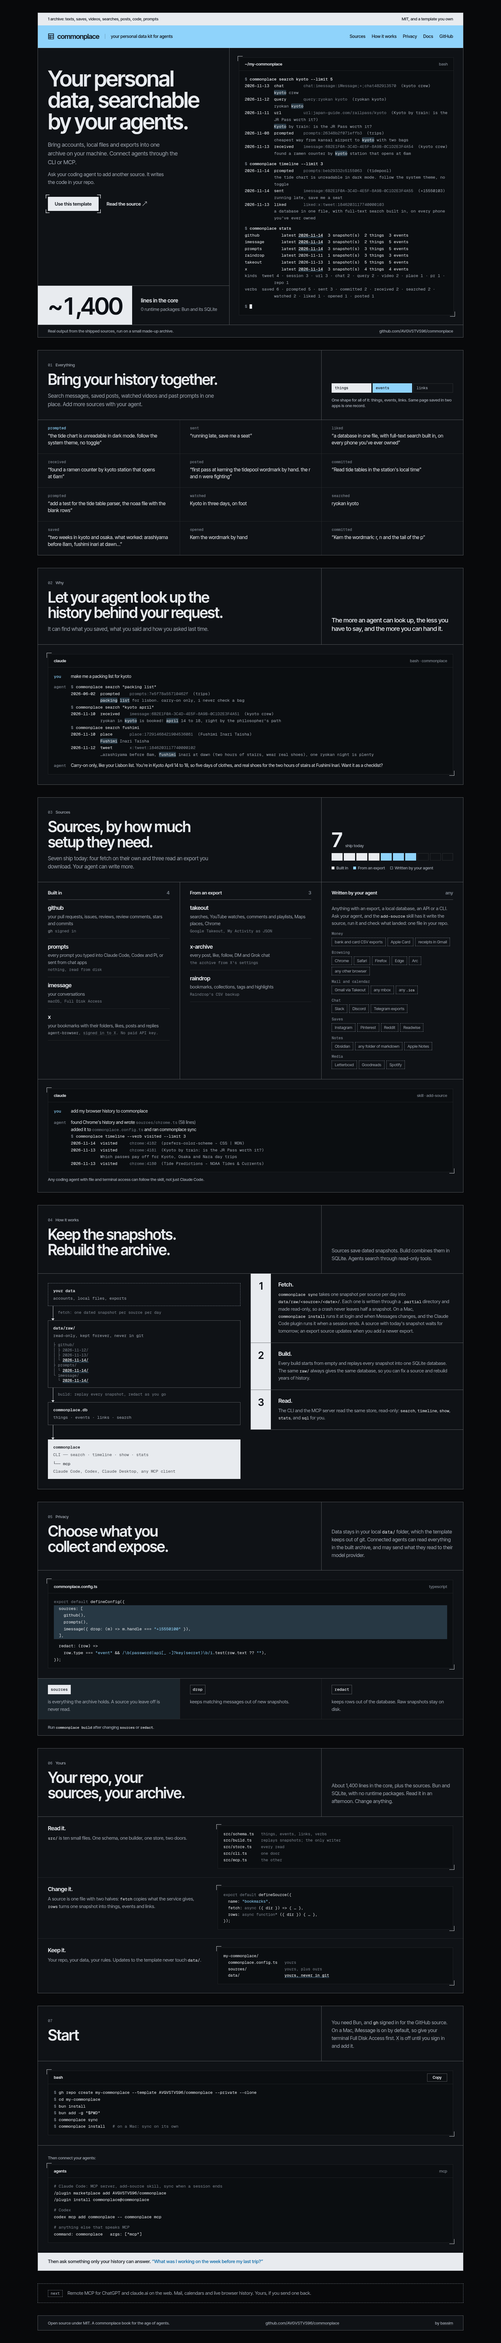
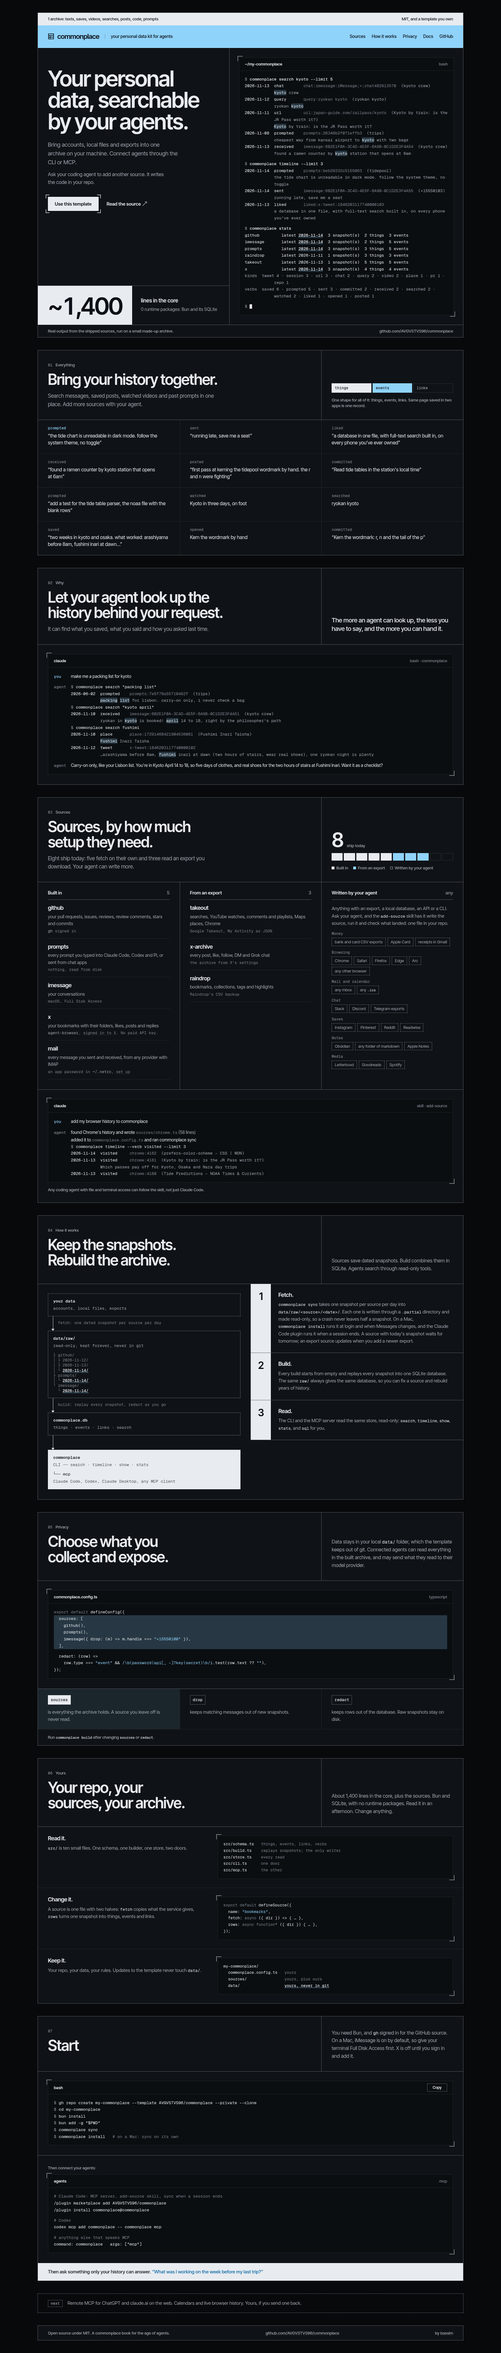
feat(site): mail is the fifth built-in source; brand docs describe the field sheet system
The commonplace v0.1.0 tag ships mail over IMAP, so the copy, the page and
the source bar say eight sources, five built in. LAUNCH.md drops the MCP
allowlist the product no longer has. BRAND.md and references.md now describe
the field sheet system the site uses, with the paper-and-red files marked
retired.

diff --git a/site/index.html b/site/index.html
@@ -163,21 +163,22 @@
 
 <section class="sec" id="sources" aria-labelledby="sources-title">
   <div class="sec-head">
-    <div><p class="label"><b>03</b>Sources</p><h2 id="sources-title">Sources, by how much setup they need.</h2><p class="line">Seven ship today: four fetch on their own and three read an export you download. Your agent can write more.</p></div>
+    <div><p class="label"><b>03</b>Sources</p><h2 id="sources-title">Sources, by how much setup they need.</h2><p class="line">Eight ship today: five fetch on their own and three read an export you download. Your agent can write more.</p></div>
     <div class="aside">
-      <div class="count"><b>7</b><span class="small">ship today</span></div>
-      <div class="cells" aria-hidden="true"><i></i><i></i><i></i><i></i><i class="e"></i><i class="e"></i><i class="e"></i><i class="w"></i><i class="w"></i><i class="w"></i></div>
+      <div class="count"><b>8</b><span class="small">ship today</span></div>
+      <div class="cells" aria-hidden="true"><i></i><i></i><i></i><i></i><i></i><i class="e"></i><i class="e"></i><i class="e"></i><i class="w"></i><i class="w"></i></div>
       <div class="legend small"><span>Built in</span><span class="e">From an export</span><span class="w">Written by your agent</span></div>
     </div>
   </div>
   <div class="tiers">
     <div class="tier">
-      <h3><span>Built in</span><span>4</span></h3>
+      <h3><span>Built in</span><span>5</span></h3>
       <dl>
         <div class="row"><dt>github</dt><dd>your pull requests, issues, reviews, review comments, stars and commits</dd><dd class="needs"><code>gh</code> signed in</dd></div>
         <div class="row"><dt>prompts</dt><dd>every prompt you typed into Claude Code, Codex and Pi, or sent from chat apps</dd><dd class="needs">nothing, read from disk</dd></div>
         <div class="row"><dt>imessage</dt><dd>your conversations</dd><dd class="needs">macOS, Full Disk Access</dd></div>
         <div class="row"><dt>x</dt><dd>your bookmarks with their folders, likes, posts and replies</dd><dd class="needs"><code>agent-browser</code>, <a href="https://github.com/AVGVSTVS96/commonplace#x">signed in to X</a>. No paid API key.</dd></div>
+        <div class="row"><dt>mail</dt><dd>every message you sent and received, from any provider with IMAP</dd><dd class="needs">an app password in <code>~/.netrc</code>, <a href="https://github.com/AVGVSTVS96/commonplace#mail">set up</a></dd></div>
       </dl>
     </div>
     <div class="tier">
@@ -194,7 +195,7 @@
       <dl class="chips">
         <div><dt>Money</dt><dd><span>bank and card CSV exports</span><span>Apple Card</span><span>receipts in Gmail</span></dd></div>
         <div><dt>Browsing</dt><dd><span>Chrome</span><span>Safari</span><span>Firefox</span><span>Edge</span><span>Arc</span><span>any other browser</span></dd></div>
-        <div><dt>Mail and calendar</dt><dd><span>Gmail via Takeout</span><span>any mbox</span><span>any <code>.ics</code></span></dd></div>
+        <div><dt>Mail and calendar</dt><dd><span>any mbox</span><span>any <code>.ics</code></span></dd></div>
         <div><dt>Chat</dt><dd><span>Slack</span><span>Discord</span><span>Telegram exports</span></dd></div>
         <div><dt>Saves</dt><dd><span>Instagram</span><span>Pinterest</span><span>Reddit</span><span>Readwise</span></dd></div>
         <div><dt>Notes</dt><dd><span>Obsidian</span><span>any folder of markdown</span><span>Apple Notes</span></dd></div>
@@ -362,7 +363,7 @@ src/mcp.ts      <span class="c">the other</span></pre></div>
 
 <aside class="next" aria-label="Next">
   <span class="tag">next</span>
-  <p>Remote MCP for ChatGPT and claude.ai on the web. Mail, calendars and live browser history. Yours, if you send one back.</p>
+  <p>Remote MCP for ChatGPT and claude.ai on the web. Calendars and live browser history. Yours, if you send one back.</p>
 </aside>
 
 </main>

diff --git a/brand/BRAND.md b/brand/BRAND.md
@@ -1,14 +1,16 @@
 # commonplace · brand
 
-**The idea in a sentence:** a commonplace book for the age of agents, and it looks like one that a developer keeps in a terminal: paper, mono, one red pen.
+**The idea in a sentence:** a commonplace book for the age of agents, laid out like a field sheet: framed panels, ink, one sky blue, and real output as the picture.
+
+The look is direction A, "Field sheet", from `~/Developer/brand-it-directions/commonplace/` (built on @kyleanthony's "Utilitarian style website design" and "Neo Industrial" posts; see `references.md`). The site in `site/` is the living specimen: when this file and the site disagree, the site wins and this file gets fixed.
 
 ## Personality
 
 - **Plain.** It says what it does in the words a README would use. No marketing voice, no setup-and-punchline.
 - **Yours.** A template you own, not an app you install. Everything on the page should look readable, editable, forkable: file trees, config, one-file sources.
 - **Quiet about privacy, loud about structure.** Trust comes from showing the mechanism (dated read-only snapshots, one door, you choose what goes in), not from a lock icon.
-- **Data-powerful, not data-dashboard.** Numbers are real and set in a ledger, never in a KPI tile.
-- **Developer, in the sense of hackable.** Terminal and tree views, but light, airy and friendly. Never the dark-neovim-rice look.
+- **Data-powerful, not data-dashboard.** Numbers are real, set big in a black cell or as a bar of cells, never as a KPI tile with a trend arrow.
+- **Developer, in the sense of hackable.** Terminal and tree views, framed like plates on a spec sheet. Light by default, with a dark theme that is the same tokens swapped.
 
 ## What it is and isn't
 
@@ -21,93 +23,82 @@
 
 ## The visual system
 
-### Type: Ioskeley Mono + IBM Plex Sans (OFL, free)
+### Type: Inter Tight + Geist Mono (OFL, free)
 
-Two voices. Ioskeley Mono is an Iosevka build in the proportions of Berkeley Mono (the mono he admires, see `references.md`), free under the OFL, and it ships every glyph the system draws with: box drawing `├ └ │ ─`, arrows `→ ↗`, the block `▮`. Plex Sans carries the prose.
+- **Inter Tight** for everything a person says: headlines at 600 with `-0.035em` tracking and line-height about 1 (hero `clamp(44px, 4.9vw, 70px)`, section heads `clamp(32px, 3.4vw, 48px)`); body 400 at 16–18px/1.55; labels and captions 500 at 13px, sentence case. No serif, no uppercase tracking.
+- **Geist Mono** for everything the computer says: terminals, paths, commands, `needs` notes, verbs in the ledger. 13px in terminals, 12–12.5px in dense notes. Ligatures off (`font-variant-ligatures: none`).
+- Geist Mono has no box-drawing or arrow glyphs, so the same family name also loads Ioskeley Mono 400 for `U+2190–21FF, U+2500–257F, U+25A0–25FF` only. Both are 600 units wide, so trees and columns still line up. Inter Tight gets the arrows from the same file.
+- Files: `site/public/fonts/inter-tight.woff2`, `geist-mono.woff2`, `ioskeley-mono-400.woff2`.
 
-- **Ioskeley Mono** for everything the computer says: terminal, tables, labels, paths, dates, numbers, the wordmark. 14px is the working size (`0.875rem/1.6`); 12px uppercase tracked `0.08em` for labels; 13px in diagrams and dense panels. Weights 400 and 500 only, 500 for the wordmark. Ligatures off everywhere (`font-variant-ligatures: none`): `=>` and `--` stay two characters, like a terminal.
-- **Plex Sans** (variable) for everything a person says: headlines at 540–560, letter-spacing `-0.02` to `-0.028em`, line-height 1.02–1.1; body at 400, 17px/1.55; small body 15px. Enable `ss01` and `cv05` (the single-storey a and open g make it friendlier). Measure 64ch.
-- The mono is one CSS token, `--font-mono`, so swapping it is one line. Shipped as subsets (`fonts/ioskeley-mono-{400,500,600}.woff2`, Latin plus U+2190–21FF, U+2500–257F, U+25A0–25FF, about 17 KB each); the full builds are in `fonts/ioskeley/`.
-- Upgrade path if he wants to spend money: **Berkeley Mono** ($75, US Graphics) swaps in for Ioskeley with no other change; the proportions already match.
+### Color: ink, sheet, one sky blue
 
-### Color: paper, ink, one red
-
-Light is the default (the brief says light-terminal). Dark is the same tokens swapped, never a second design.
+Light is the default. Dark is the same tokens swapped, never a second design.
 
 | token | light | dark | use |
 | --- | --- | --- | --- |
-| `--bg` | `#FAF9F6` | `#121211` | the page: paper, not white; near-black, not black |
-| `--bg-2` | `#F1EFEA` | `#1A1A18` | terminal and panel fill |
-| `--ink` | `#141412` | `#ECEAE4` | text, rules, filled buttons |
-| `--ink-2` | `#5C5A55` | `#A7A49D` | secondary text, terminal output |
-| `--ink-3` | `#6F6C66` | `#8F8C85` | labels, hints, dimmed rows |
-| `--hair` | `rgb(20 20 18 / .14)` | `rgb(236 234 228 / .16)` | 1px rules and borders |
-| `--hair-2` | `rgb(20 20 18 / .07)` | `rgb(236 234 228 / .08)` | row dividers, bar tracks |
-| `--red` | `#D2451E` | `#F06A42` | the rubric: `$`, section labels, the newest snapshot, the cursor, the "now" row |
-| `--red-soft` | `rgb(210 69 30 / .10)` | `rgb(240 106 66 / .14)` | search-term highlight, selection |
-| `--green` | `#2F7D4A` | `#5FBF80` | done, built, added |
-| `--blue` | `#2A56C6` | `#83A6FF` | IDs and links inside terminal output only |
-| `--amber` | `#B06F0A` | `#E2A43C` | pending, coming |
+| `--page` | `#E9ECEF` | `#08090B` | the field the sheets sit on |
+| `--sheet` | `#FFFFFF` | `#0F1216` | every framed panel |
+| `--plate` | `#F6F8FA` | `#0B0E11` | terminal and code plates |
+| `--ink` | `#0D1117` | `#E8EBEF` | text, frames, crop marks |
+| `--ink-2` | `#555D68` | `#A2A9B3` | secondary text, output |
+| `--ink-3` | `#747B86` | `#7D858F` | labels, IDs, prompts |
+| `--frame` | `#0D1117` | `rgb(232 235 239 / .36)` | the 1px frame of every sheet and cell |
+| `--line` | `rgb(13 17 23 / .12)` | `rgb(232 235 239 / .10)` | rows inside a cell, plate borders |
+| `--solid` / `--on-solid` | `#0D1117` / `#FFFFFF` | `#E8EBEF` / `#0D1117` | black strips, figure cells, buttons |
+| `--sky` / `--on-sky` | `#9DDCFF` / `#0D1117` | `#8FD3FB` / `#0D1117` | the nav band, the second series in a bar |
+| `--sky-ink` | `#0B6AA8` | `#8FD3FB` | blue text: "you", strings, the newest entry, focus rings |
+| `--solid-accent` | `#9DDCFF` | `#0B6AA8` | blue text on a solid strip |
+| `--hit` | `rgb(80 180 245 / .26)` | `rgb(143 211 251 / .22)` | search hits, today's date, the highlighted config lines |
 
-Rule: **red is the only brand colour, and it means "this one, now".** Green, blue and amber live inside terminal output and status chips, like a light terminal theme, and never become decoration. The reason it holds together: a medieval commonplace book used red (rubrication) for headings and the marks that said "look here"; a shell uses one colour for the prompt. Same job, one colour.
+Rule: **sky blue is the only colour, and it means "this one" or "yours"**: the band you navigate by, the hit you searched for, the line you're reading, the second kind in a count. Everything else is ink at three strengths. No red, no green, no amber.
 
-### Grid and spacing
+### Frames and spacing
 
-- 8px base, 4px half step. Scale: 4 · 8 · 12 · 16 · 24 · 32 · 48 · 64 · 96.
-- Page max 76rem with 1px hairline side rails; gutters `clamp(1rem, 4vw, 3rem)`; sections separated by hairlines, not by background changes.
-- Square corners everywhere. No shadows. 1px borders in `--hair`; 1px in `--ink` only for the primary thing on screen (table head rule, a diagram box, a button).
-- Tables and terminal panels go full width of their column and scroll sideways on phones rather than wrapping.
+- The page is a stack of framed sheets on `--page`, 40px apart and inset (14px below 1100px). Max width 1440px.
+- Every sheet is a grid of cells divided by 1px `--frame` rules; rows inside a cell use `--line`. Square corners, no shadows.
+- Padding is 32px inside a cell (18px on phones). Section heads are a 2:1 split: heading and line left, a data panel right.
+- Terminals never clip: long output wraps with a hanging indent (the hero) or scrolls sideways with a 40px fade at the edge that disappears once scrolled to the end.
 
 ### Motifs
 
-1. **The prompt line.** `$ commonplace sync` with a red `$`. It is the hero, the CTA (`$ gh repo create --template`) and the section opener. The prompt says "you type this, it is yours", where a button says "we run this for you".
-2. **The rubric.** Every section opens with a 12px red mono label and a number: `03  SOURCES`. Headlines stay ink.
-3. **The ledger.** Tables with a solid 1px head rule, hairline rows, dates first, numbers right-aligned in tabular figures, source names in 500. Dimmed rows for what's coming, never fake numbers.
-4. **The snapshot tree.** `data/raw/github/2026-10-08/` drawn with box-drawing characters, newest date in red. It is the proof of "private, read-only, kept forever" and it is also the brand's one picture.
-5. **The cursor.** A block at x-height in red. The wordmark ends with it, the terminal ends with it, the video ends with it.
-6. **The date.** `2026-10-08` as a stamp wherever something was last true. Never "2 hours ago".
-
-The book heritage is carried by the mono, red rubrics and ledger tables. No quills, parchment, serifs, drop caps, or ornament.
-
-### Iconography
-
-Almost none. Prefer glyphs the fonts already have: `→ ↗ ✓ · ─ │ ├ └ ▮ ›`. Source badges are two-to-four-letter mono chips in a hairline box (`gh`, `x`, `yt`, `rd`). If an icon is unavoidable: 16px grid, 1.5px stroke, square caps, ink only.
-
-### Diagrams
-
-Diagrams look typed: 1px ink boxes, mono labels, straight orthogonal wires that meet at right angles, dashed for optional, red for the path to you. Flow goes left to right: accounts → `data/raw/` → `commonplace.db` → CLI and MCP → you and your agents. Drawn as SVG so the site can animate the wires; a `<pre>` tree whenever text alone says it. Never isometric, never gradients, never icons in boxes.
+1. **The sheet.** One framed panel per section, with a numbered label (`01 Everything`) above a big heading.
+2. **The strip.** A black strip of facts across the top of the first sheet, and a ruled strip for captions at its foot.
+3. **The band.** The sky-blue nav band with the logo and tagline. Once it scrolls away, the same band slides in fixed at the top.
+4. **The figure.** One real number, big, in a black cell: `~1,400` lines in the core.
+5. **The plate.** Terminals, code and trees sit on a plate with two ink crop marks, top left and bottom right. The primary button gets four corner brackets.
+6. **The cell bar.** A count as a row of squares: solid for built in, sky for from an export, an empty outline for what your agent writes.
 
 ### Data viz
 
-A chart is a table row with a bar in it. Horizontal bars on a `--hair-2` track, ink fill, the row you are talking about in red, label left in `--ink-2`, number right in tabular figures. Sparklines are 1px ink. Categorical colour is ink shades first and red for one series; never a rainbow. Only numbers that exist in a real archive, with the date they were true.
+A count is a cell bar; a number is a figure cell; a list is a ruled grid of cells. Only numbers that exist in the real code or the demo archive, with the date they were true.
 
 ### Motion
 
-- **Follows state.** Something moves because something happened: a snapshot landed, a row appeared, a command returned. Nothing on timers or scroll position, no parallax, no scroll-jacking.
-- **Three durations, one curve.** 120ms colour and hover, 200ms enter and reveal, 320ms layout and diagram wires; `cubic-bezier(.2, .7, .2, 1)`.
-- **Typed, not faded.** Terminal lines appear whole and in order like real output; the cursor blinks at 1s in `steps(1)`. `prefers-reduced-motion` stops the blink and skips reveals.
-- **Numbers are real.** A counter counts to a number from an archive, once, over 320ms, and stops.
+- **Follows state.** Something moves because something happened: the band leaves the screen, a rule is hovered, Copy is pressed. Nothing on scroll position or timers, apart from the terminal cursor's 1s blink.
+- 120ms for colour and hover, 200ms for the fixed band; `cubic-bezier(.2, .7, .2, 1)`. `prefers-reduced-motion` turns transitions off.
+- Terminals show their whole output at once. The output is the proof; nobody should wait for it.
 
 ### Video
 
-Same system on a 1920×1080 paper stage. Every scene is a real command and its real output, typed at ~45ms per character with the output landing whole. Hard cuts on the beat, no crossfades. One red object per scene (the `$`, the newest snapshot, the cursor). Sound: keypress ticks and one tone when the build line lands. It ends on `commonplace▮`.
+The same system on a 1920×1080 stage: sheets, strips, plates and the sky band, every scene a real command and its real output. Hard cuts on the beat, no crossfades. See `video/README.md` and `video/LEARNED.md`.
 
 ## Logo
 
-`logo/commonplace.svg` (light), `logo/commonplace-dark.svg`, `logo/commonplace-mono.svg` (`currentColor`, for inline use), `logo/mark.svg`, `logo/mark-dark.svg`, `logo/favicon.svg` (follows the system theme). `logo/gen.mjs` regenerates all of them from the fonts with `bun logo/gen.mjs`.
+The mark is a square grid, three rows with the bottom two split: an index card, a ledger, a table. 22-unit viewBox, 2-unit stroke, square caps, `currentColor`. The wordmark is the word **commonplace** in Inter Tight 600 at `-0.03em`, set 10px to the right of the mark at 20–24px, live text rather than outlines. Next to it, after a thin rule, the tagline in lowercase: *your personal data kit for agents*.
 
-Three directions were explored (`logo/explore-*.svg`, shown and argued in `specimen.html`). The pick is **A, the cursor**: the name in Ioskeley Mono with a red block cursor at x-height. It says CLI without drawing a window, it says the book is never finished, and it reduces to a 16px favicon (`c▮`) without losing anything.
-
-Clear space: one cursor width on every side. Minimum height: 14px for the wordmark, 16px for the mark. Never recolour the cursor to anything but `--red` (or `currentColor` in the mono version).
+- `logo/grid.svg`: the mark alone, in `currentColor`.
+- `site/public/favicon.svg`: the mark in ink on a sky rounded square, the same in both themes; `apple-touch-icon.png` is rendered from it by `bun --filter site shots`.
 
 ## Files
 
 ```
 brand/
 ├ BRAND.md            this
-├ references.md       what from his own saved inspiration this is built on
-├ specimen.html       the system in use
-├ render.mjs          bun render.mjs → shots/{desktop,phone}-{light,dark}.png
-├ fonts/              Ioskeley Mono 400/500/600 subsets (+ full builds in ioskeley/), Plex Sans variable (+italic), OFL
-└ logo/               wordmark, mark, favicon, explorations, gen.mjs, the two TTFs it reads (Ioskeley Mono Medium, Plex Sans SemiBold)
+├ references.md       what the system is built on
+├ logo/grid.svg       the mark
+└ fonts/              Ioskeley Mono and Plex Sans, used by the retired system and the box-drawing fallback
 ```
+
+### Retired: paper, mono and one red (Oct 2026)
+
+The first system: Ioskeley Mono and Plex Sans on warm paper, a red rubric and a block-cursor wordmark. Its files stay for the record: `specimen.html`, `fonts-compare.html`, `fonts.md`, `render.mjs`, `shots/`, and `logo/` apart from `grid.svg` (`gen.mjs` regenerates the cursor wordmark). Don't use them for new work.

diff --git a/brand/references.md b/brand/references.md
@@ -1,8 +1,16 @@
 # references
 
+## Field sheet (current, Nov 2026)
+
+Pulled from Bassim's X saves with the commonplace CLI (X synced 2026-11-12); the full board and the two directions not taken are in `~/Developer/brand-it-directions/commonplace/`.
+
+- **@kyleanthony, "Utilitarian style website design"**, https://x.com/kyleanthony/status/2008525918047007201, and his "Neo Industrial" post, https://x.com/kyleanthony/status/2093309881893724669. Taken: the page as framed sheets; a black status strip on top and a ruled strip at the foot; the sky-blue nav band; the bracketed button; one big figure in a black cell; panels with corner crop marks; a cell grid for counts. Changed: Inter Tight throughout instead of a serif, sentence-case labels, white sheets on cool grey instead of cream, sky blue and ink instead of orange, and real `commonplace` output on every plate.
+
+## Paper, mono and one red (retired, Oct 2026)
+
 What the system is built on, pulled from Bassim's own X bookmarks and Raindrop collections (me.db, Oct 8 2026), plus a few outside references that clearly fit. One line each on what to take.
 
-## From his saved posts and bookmarks
+### From his saved posts and bookmarks
 
 1. **Neo Industrial: "the perfect collision of Swiss design and technical spec sheets"**, @kyleanthony. https://x.com/kyleanthony/status/2093309881893724669. The thesis in one line: Swiss grid and restraint, spec-sheet tables and labels. The ledger and the rubric come from here.
 2. **markdown graphs: "tables, charts, and diagrams for MDX that look like they were typed"**, @kshvbgde. https://x.com/kshvbgde/status/2093015885669888237. The diagram and chart style: typed, mono, 1px, no icons.
@@ -25,7 +33,7 @@ What the system is built on, pulled from Bassim's own X bookmarks and Raindrop c
 19. **ASCII backgrounds are trending**, @kail_designs, @uihssn; and the counterpoint, @hewarsaber: "unlike the bs ascii art flooding the timeline". https://x.com/kail_designs/status/2063524629571064128 · https://x.com/hewarsaber/status/2044350699979333727. He saved both: the terminal look is in, and ASCII wallpaper is already a cliché. So: box-drawing where it carries meaning (the tree), never as texture.
 20. **Linear's new icons and components**, @Griveau. https://twitter.com/i/web/status/2090746237934883043. If icons ever appear: this weight and restraint.
 
-## Outside references that fit
+### Outside references that fit
 
 - **IBM Plex** specimen and the reasoning behind the family (https://www.ibm.com/plex/). Mono and sans drawn together; why one family carries both voices.
 - **Locke's "A New Method of Making Common-Place-Books" (1706)**. The original index-and-ledger method; the reason the brand is tables and dates, not notebooks and quills.

diff --git a/copy/MESSAGING.md b/copy/MESSAGING.md
@@ -31,7 +31,7 @@ The headline says what you get. The sub line says what goes in, where it lives a
 Three moves, in this order.
 
 **1. Your history is scattered.**
-Agents can already read your code. The rest is spread across apps: texts, saved posts, watched videos, searches, bookmarks, every prompt you typed. commonplace brings it into one archive with one shape: things, events, links. Seven sources ship today.
+Agents can already read your code. The rest is spread across apps: texts, saved posts, watched videos, searches, bookmarks, every prompt you typed. commonplace brings it into one archive with one shape: things, events, links. Eight sources ship today.
 
 **2. Your agent can look up the history behind a request.**
 What you saved, what you said, how you asked last time. Ask for a packing list and it can find that you pack carry-on only, the dates in the group chat, and the hike you saved. Say what it can find, never what it will understand.
@@ -48,7 +48,7 @@ Don't say "digital twin", "second brain", "memory layer", "context engine", "kno
 - **A template repo.** You copy it into a private repo of your own. The code is yours, in your repo, next to your data. About 1,400 lines in the core, plus one file per source. Bun and its built-in SQLite, with no runtime packages.
 - **An archive of dated snapshots.** At most one read-only snapshot per source per day in `data/raw/`, kept forever. One SQLite database rebuilt from them anytime. Full-text search that matches word forms, not meanings.
 - **A CLI and an MCP server.** Both read the same database, read-only. Claude Code, Codex, Claude Desktop, and anything else that speaks MCP.
-- **Sources.** Seven ship today. Four fetch on their own: GitHub; every Claude Code, Codex and Pi prompt; iMessage; and X, read from your own signed-in agent-browser session, with no paid API key. Three read an export you download: Google Takeout, the X archive, Raindrop. Your agent writes the rest with `add-source`.
+- **Sources.** Eight ship today. Five fetch on their own: GitHub; every Claude Code, Codex and Pi prompt; iMessage; X, read from your own signed-in agent-browser session, with no paid API key; and mail from any provider with IMAP. Three read an export you download: Google Takeout, the X archive, Raindrop. Your agent writes the rest with `add-source`.
 
 ## What it isn't
 

diff --git a/copy/LAUNCH.md b/copy/LAUNCH.md
@@ -10,8 +10,8 @@ introducing commonplace: your personal data kit for agents
 a commonplace book for the age of agents. it copies everything you've made, saved and said into a private archive on your machine, keeps it current, and gives every agent one safe door to it
 
 - not just your github. texts, mail, review comments, what you watched, what you saved, every prompt you ever typed
-- agents read it over mcp, and see only the sources you allow
-- four sources built in, three that read an export, and anything with an export, db, api or cli is one ask away: the add-source skill has your agent write it
+- agents read it over mcp or the cli
+- five sources built in, three that read an export, and anything with an export, db, api or cli is one ask away: the add-source skill has your agent write it
 - a template you own, not an app you install. ~1,400 lines of typescript, zero deps, sqlite, mit
 
 this is how an agent learns your intent and your judgment, not just your code
@@ -50,9 +50,9 @@ your agent has read all your code and none of your judgment
 
 what you saved, what you liked, what you starred, what you rejected, how you asked for it last time. that's where your taste lives, and it's scattered across twenty apps
 
-commonplace puts it in one private archive on your machine, keeps it current, and gives every agent one safe door to it. over mcp, only the sources you allow
+commonplace puts it in one private archive on your machine, keeps it current, and gives every agent one safe door to it, over mcp or the cli
 
-a template you own. ~1,400 lines, zero deps, sqlite, mit. github, imessage, x and every claude code, codex and pi prompt built in; takeout, the x archive and raindrop from their exports; anything else is one ask away
+a template you own. ~1,400 lines, zero deps, sqlite, mit. github, imessage, x, mail and every claude code, codex and pi prompt built in; takeout, the x archive and raindrop from their exports; anything else is one ask away
 ```
 
 ## Launch video, 60–90 seconds

diff --git a/copy/SITE.md b/copy/SITE.md
@@ -68,7 +68,7 @@ Closing line: The more an agent can look up, the less you have to say, and the m
 ## Sources
 
 Section title: Sources, by how much setup they need.
-Line: Seven ship today: four fetch on their own and three read an export you download. Your agent can write more.
+Line: Eight ship today: five fetch on their own and three read an export you download. Your agent can write more.
 
 ### Built in
 
@@ -80,6 +80,7 @@ Line: Seven ship today: four fetch on their own and three read an export you dow
 | `prompts` | every prompt you typed into Claude Code, Codex and Pi, or sent from chat apps | nothing, read from disk |
 | `imessage` | your conversations | macOS, Full Disk Access |
 | `x` | your bookmarks with their folders, likes, posts and replies | `agent-browser`, [signed in to X](https://github.com/AVGVSTVS96/commonplace#x). No paid API key. |
+| `mail` | every message you sent and received, from any provider with IMAP | an app password in `~/.netrc`, [set up](https://github.com/AVGVSTVS96/commonplace#mail) |
 
 ### From an export
 
@@ -99,7 +100,7 @@ Line: Anything with an export, a local database, an API or a CLI. Ask your agent
 
 - Money: bank and card CSV exports, Apple Card, receipts in Gmail
 - Browsing: Chrome, Safari, Firefox, Edge, Arc, any other browser
-- Mail and calendar: Gmail via Takeout, any mbox, any `.ics`
+- Mail and calendar: any mbox, any `.ics`
 - Chat: Slack, Discord, Telegram exports
 - Saves: Instagram, Pinterest, Reddit, Readwise
 - Notes: Obsidian, any folder of markdown, Apple Notes
@@ -233,7 +234,7 @@ Closing line: Then ask something only your history can answer. *"What was I work
 
 *(A short muted strip, "next" tag.)*
 
-Remote MCP for ChatGPT and claude.ai on the web. Mail, calendars and live browser history. Yours, if you send one back.
+Remote MCP for ChatGPT and claude.ai on the web. Calendars and live browser history. Yours, if you send one back.
 
 ## Footer
 
